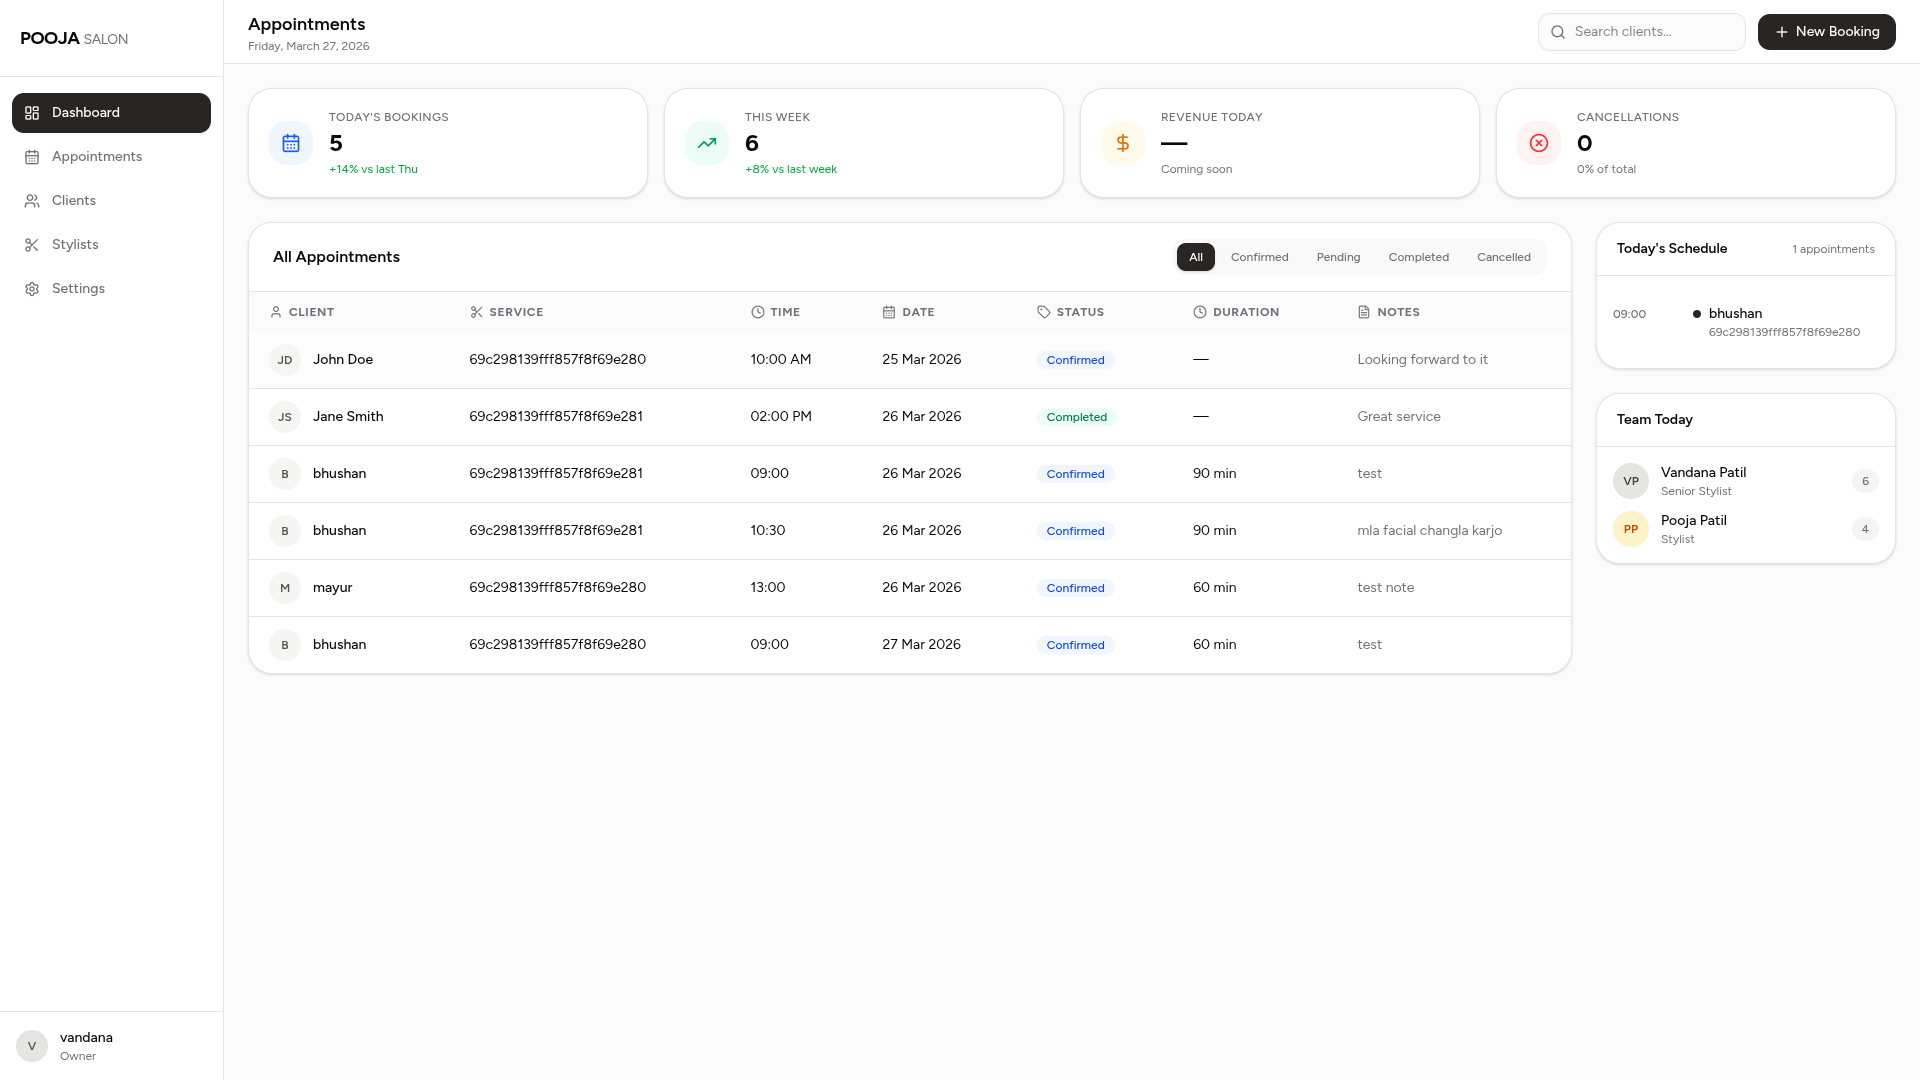
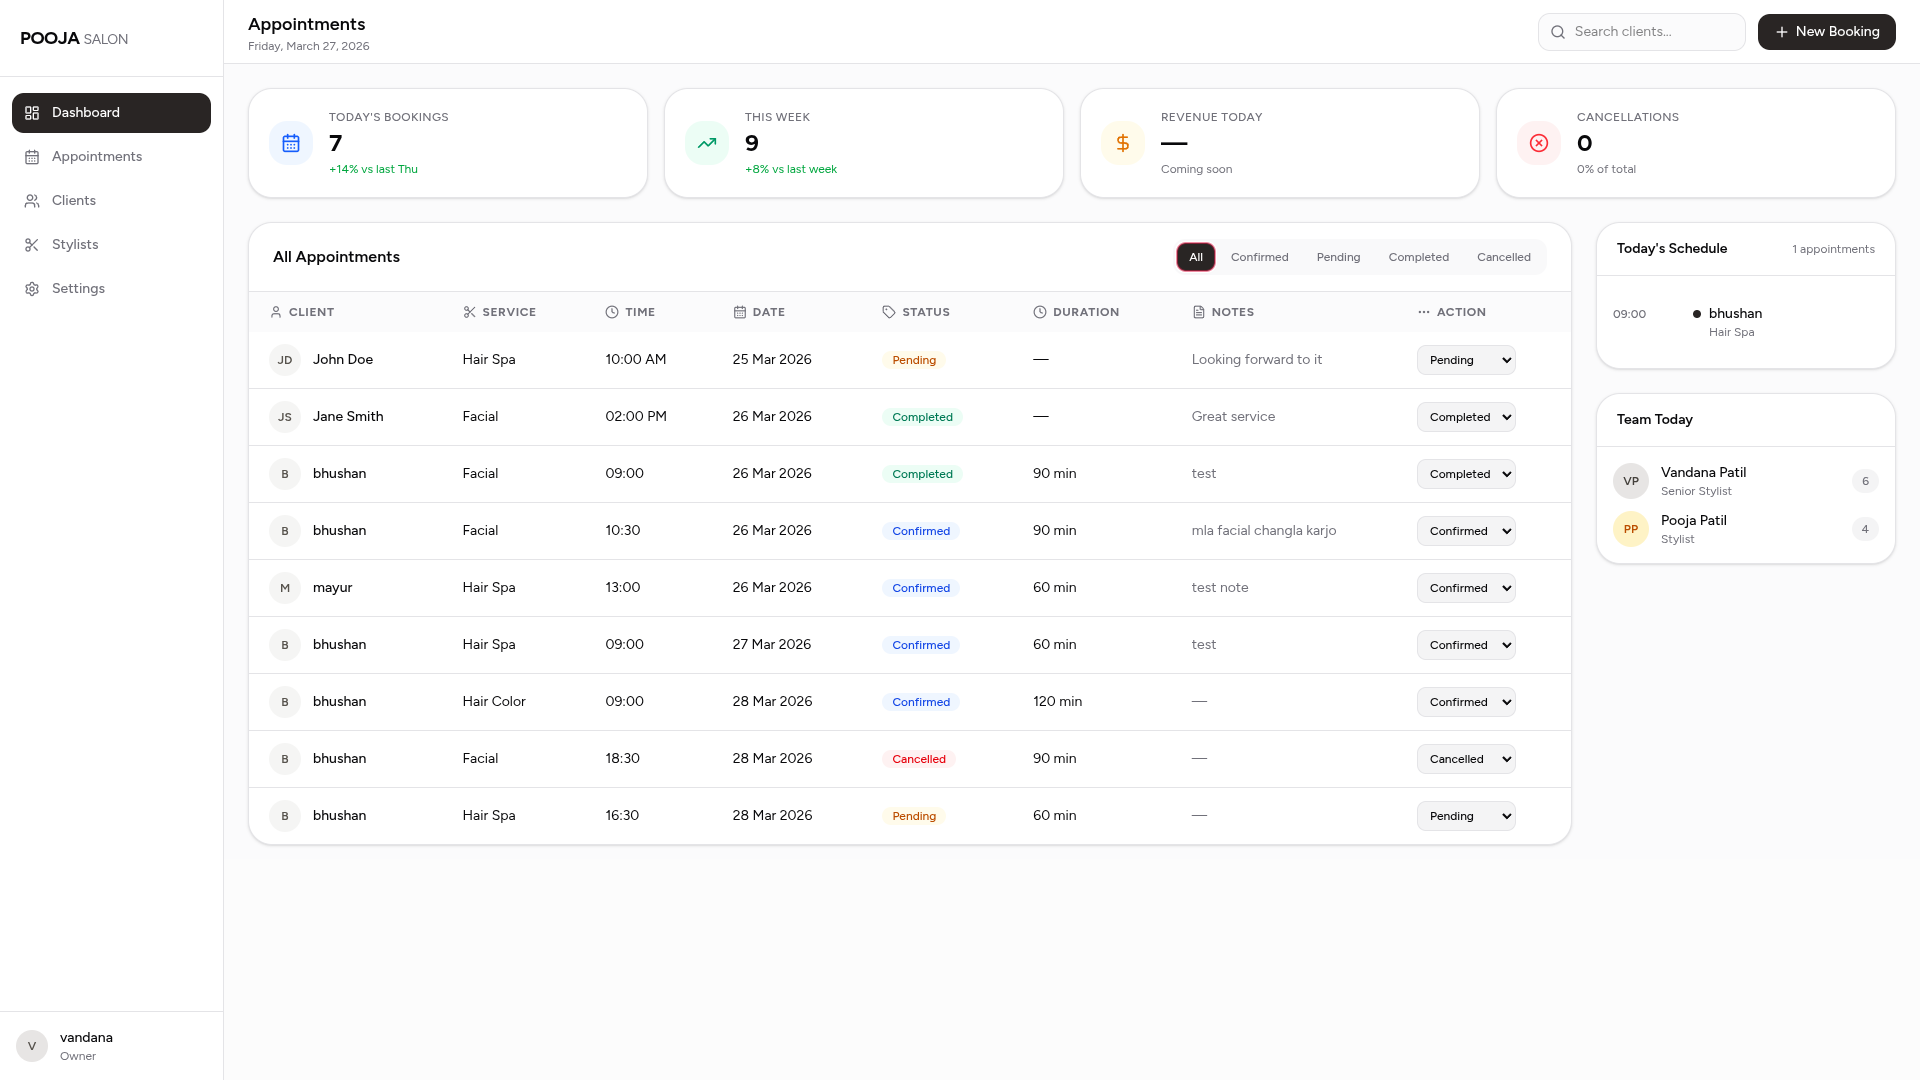
update readme

diff --git a/README.md b/README.md
@@ -12,6 +12,8 @@ A full-stack salon appointment booking system built with the MERN stack (MongoDB
 
 ## Recent Updates
 
+- **Interactive Status Management**: Upgraded the Admin Dashboard appointments table with an inline "Action" column to instantly change appointment statuses (Pending, Confirmed, Completed, Cancelled). Updates are made optimistically in the UI and persisted via a new `PATCH /appointments/admin/:id/status` endpoint.
+- **Improved Booking Logic**: New appointments now default to a `pending` state. The scheduling algorithm was updated to properly parse populated service data and aggressively ignore `cancelled` appointments, thereby freeing up time slots.
 - **Admin Dashboard**: Built a fully functional `AdminDashboard.tsx` page at `/admin/dashboard` showing live appointment stats (booked / completed / cancelled counts) and a full appointments table with customer name, phone, date, time, color-coded status badge, duration, and notes. Appointments are populated server-side with user data via Mongoose `.populate()`.
 - **Admin Route Guards**: Added a dedicated `src/routes/` folder containing `ProtectedRoute.tsx` (user auth) and `AdminProtectedRoute.tsx` (admin-only — redirects non-admins to home and unauthenticated users to `/login/admin`). Both exported from a barrel `index.ts`.
 - **`adminAuth` Middleware**: Added server-side `adminAuth` middleware that validates the JWT cookie and enforces `role === "admin"` before granting access to admin-only endpoints.
@@ -100,7 +102,7 @@ The React app will be available at `http://localhost:5173`.
 ## Core Features
 
 - **Customer Portal**: Browse salon services and book appointments with real-time availability checking.
-- **Admin Dashboard**: Live stats and a full appointments table (customer details, date, time, status, duration, notes). Admin-only — protected by `AdminProtectedRoute` on the frontend and `adminAuth` middleware on the backend.
+- **Admin Dashboard**: Live stats and a full appointments table (customer details, date, time, status, duration, notes). Includes inline status management (Pending/Confirmed/Completed/Cancelled) which dynamically updates the database. Admin-only — protected by `AdminProtectedRoute` on the frontend and `adminAuth` middleware on the backend.
 - **Role-Based Auth**: User model supports `"user"` and `"admin"` roles. Dedicated route guards (`ProtectedRoute`, `AdminProtectedRoute`) in `src/routes/` and server-side middleware enforce access per role.
 - **Authentication & State**: Secure HttpOnly cookie-based JWT. `AuthContext` manages user + appointments state globally, and auto-fetches admin appointments on session restore.
 - **Appointment Timeslot Blocking**: Prevents overlapping bookings based on service duration and existing appointments for a given date.
@@ -142,6 +144,7 @@ The React app will be available at `http://localhost:5173`.
 | `GET` | `/appointments/date/:date` | Public | Get appointments for a specific date |
 | `POST` | `/appointments/create` | User | Create a new appointment |
 | `GET` | `/appointments/admin/all` | Admin | List all appointments (with user details) |
+| `PATCH` | `/appointments/admin/:id/status` | Admin | Update appointment status |
 
 #### Auth
 | Method | Endpoint | Description |
